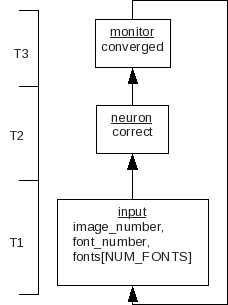
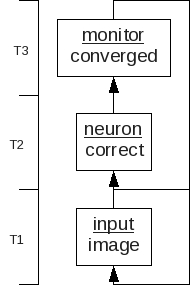
Working on docco.

diff --git a/vision_thing/docco/vision_thing.html b/vision_thing/docco/vision_thing.html
@@ -74,7 +74,7 @@ You might want to skip straight to the results, which are <a href="./animations.
 <img src="abstract.jpg" alt="abstract"/>
 </p>
 <p>
-
+Note that this differs slightly from the code - the monitor subscribing to the input object is not shown. This is because this relationship is not required, but the this was discovered too late in the release process to make it into v1.0. The above diagram shows how the relationship should be.
 </p>
 <h3>The concrete diagram</h3>
 <p>
@@ -116,51 +116,49 @@ This neuron is shown various images. We'll start with a very simple 8-bit exampl
 01111110
 </pre></blockquote>
 <p>
-As you can see this is a (crude) monochrome bit map of the number 1. When this is shown to our neuron, it will multiply each 1 in the image by the corresponding value in the 8-bit weight matrix, and sum the result. If that result is greater than 0, it means it thinks it's being shown a 1 and will set it's output flag to 1.. If the result is less than or equal to 0 it meant the neuron thinks it's not a 1, and set's it's output flag to 0. It's important to note that if the neuron doesn't think it's being shown a 1, it doesn't care what it might otherwise be - that's a job for the other neurons.
+As you can see this is a monochrome bit map of the number 1. When this is shown to our neuron, it will multiply each 1 in the image by the corresponding value in the 8-bit weight matrix, and sum the result. If that result is greater than 0, it means it thinks it's being shown a 1, and if the result is less than or equal to 0 it meant the neuron thinks it's not a 1. It's important to note that if the neuron doesn't think it's being shown a 1, it doesn't care what it might otherwise be - that's a job for the other neurons.
 </p>
 <p>
 Next, the neuron checks to see it it's correct. (The teaching mechanism is internal to the neurons themselves, partially to allow for concurrency but mainly because it made the most sense programatically.) There are three possible outcomes:
 </p>
 <p>
-Case 1) The neuron could be correct, either in correctly identifying a 1 or by correctly identifying that it's not a 1. In this case we do nothing to the weight matrix.
+Case CORRECT) The neuron is correct, either in correctly identifying a 1 or by correctly identifying that it's not a 1. In this case we do nothing to the weight matrix.
 </p>
 <p>
-Case 2) The neuron could be incorrect, by thinking it hasn't been shown a 1 when it has. In this case we need to increase the chance the next time it's show a 1 to get it correct. We do by increasing the values in the weight matrix that correspond to an active pixel. This means next time this image is shown and the results are summed we'll be above the firing threshold of 0.0.
+Case FALSE_POSITIVE) The neuron is incorrect, thinking it has been shown a 1 where in fact it hasn't. In this case we need to decrease the chance of this happening again by decreasing the values in the weight matrix that correspond to an active pixel. This means next time the neuron will take less notice of those pixels.
 </p>
 <p>
-Case 3) The neuron could be incorrect, by thinking it has been shown a 1 where in fact it hasn't. In this case we need to decrease the chance of this happening again by decreasing the values in the weight matrix that correspond to an active pixel. This means next time the neuron will take less notice of those pixels.
+Case FALSE_NEGATIVE) The neuron is incorrect, by thinking it hasn't been shown a 1 when in fact it has. In this case we need to increase the chance the next time it's show a 1 to get it correct. We do by increasing the values in the weight matrix that correspond to an active pixel. This means next time this image is shown and the results are summed we'll be above the firing threshold of 0.0.
+</p>
+<p>
+It is worth noting that the incorrect cases FALSE_POSITIVE and FALSE_NEGATIVE carry different weight adjustments. Case FALSE_POSITIVE (where it wrongly thinks it has been shown a 1 when it hasn't) will occur far more frequently than case FALSE_NEGATIVE (where it is being shown a 1 but gets it wrong), so the down adjustment to active pixels will be smaller than the up adjustment, by a factor of 10.
 </p>
 <p>
 This process is repeated for each of the input images until the neuron converges, convergence being defined as no adjustment to the weight matrix is made after being shown the complete set of 0-9 images.
 </p>
 <p>
-We'll walk through the first few cycles looking again at the neuron looking for 1. This shows the weight matrix after the neuron has made it's guess and has had the learning algorithm applied. Black means that pixel is strongly positively associated with the number 1. While means that pixel is strongly negatively associated with the number 1. Gray is neutral. 
+We'll walk through the first few cycles looking again at the neuron looking for 1. This shows the weight matrix after the neuron has made it's guess and has had the learning algorithm applied. Black means that pixel is strongly positively associated with the number 1. While white means that pixel is strongly negatively associated with the number 1. Gray is neutral. 
 </p>
 <p>
 <img src="./neuron_1_0.png" alt="neuron_1_0"/>
 </p>
 <p>
-In the above case neuron_1 is shown the number 0. As the weight matrix is initialised to 0 the sum is  0, which is greater than or equal to 0, so triggers a yes output, meaning it thinks it's a "1". As it's actually being shown a "0", it's incorrect, and the weight matrix is adjusted downwards for active pixels as described above.
+In the above case neuron_1 is shown the number 0. As the weight matrix is initialised to 0, the sum of which is  0, which is greater than or equal to 0 and so triggers a yes output, meaning it thinks it's a "1". As it's actually being shown a "0", it's incorrect, and the weight matrix is adjusted downwards for active pixels as described above.
 </p>
 <p>
 <img src="./neuron_1_1.png" alt="neuron_1_1"/>
 </p>
 <p>
-In the next case above the neuron has been shown a 1, but as many of it's weights have been negatively set by the previous cycle, it will wrongly produce a no output. In this case, the weight matrix is adjusted upwards to active pixels as described above.
+In the next case above the neuron has been shown a 1, but as many of it's weights have been negatively set by the previous cycle, it will wrongly produce a no output. In this case, the weight matrix is adjusted upwards for every active pixel as described above.
 </p>
 
 <p>
 <img src="./neuron_1_2.png" alt="neuron_1_2"/>
 </p>
 <p>
-In the above case, the neuron has been presented with a 2. As the weight matrix has just been heavily biased in favour of seeing "1"s everywhere, it will wrongly produce a yes output. Again as in the first example, the weight matrix will be adjusted downwards for those active pixels. This means that the portion of the image that corresponds to both 1 and 2 will be given less weight than those only pertaining to "1". If you zoom in your browser view (ctrl-mousewheel) you can see the shadows. It's worth noting two points at this stage.
+In the next case the neuron has been shown a 2. As the weight matrix has just been heavily biased in favour of seeing 1s everywhere, it will wrongly produce a yes output. Again as in the first example, the weight matrix will be adjusted downwards for those active pixels. This means that the portion of the image that corresponds to both 1 and 2 will be given less weight than those only pertaining to "1". If you zoom in your browser (ctrl-mousewheel) you can see the shadows more clearly.
 </p>
-<p>
-The first is that the incorrect cases 2) and 3) carry different weight adjustments. Case3 (where it wrongly thinks it has been shown a 1 when it hasn't) will occur far more frequently than case2 (where it is being shown a 1 but gets it wrong), so the down adjustment to active pixels will be smaller than the up adjustment, by a factor of 10.
-</p>
-<p>
-The second point is that the images of the weight matrix produced are scaled, so that max(up)=black and min(down)=white. This, combined with the first point above means that it will appear that black features more highly in the images than white, when in fact internally the effects of the white region are more pronounced.
-</p>
+
 <p>
 <img src="./neuron_1_31.png" alt="neuron_1_31"/>
 </p>
@@ -175,6 +173,9 @@ The above frame shows the neuron converged on Liberation - all the pixels associ
 <h2><a name="results">Results</a></h2>
 <p>
 <a  href="animations.html">Animations</a>
+</p>
+<p>
+The raw data set the graphs below were derived from is avilable <a  href="vt_out.csv">here</a>. Note that the neuron output value is an enum, with CORRECT=0, FALSE_POSITIVE=1 and FALSE_NEGATIVE=2.
 </p>
 <p>
 <img src="results1.png" alt="results1"/>
@@ -201,7 +202,10 @@ By far the most important contribution this app has made to the trad4 architectu
 This app makes extensive use of the excellent <a href="http://www.libgd.org/Main_Page">libgd</a>, a graphics library used here for converting from fonts to bit maps, and creating the animations. Libgd may or may not be thread-safe (in this case it writes to the filesystem so there will some limit on scalability), but it can be used in a multi-threaded environment as long as you know that any heap <i>it</i> uses will be cleaned up on exit from the calculate function. Apologies to anyone I might have scared off with my assertions in the v3.0 manual - this will be corrected shortly.
 </p>
 <p>
-That being said, there are circumstances where keeping 3rd party code on the stack is not an option. Witness jpm_cds, where we are actually porting an existing application to the trad4 architecture. This discussion is beyond the scope of this document, but will be addressed in the all-new trad4v3.1 manual (forthcoming). The jpm_cds Phase2 model is actually a very high priority of mine, but quite frankly feels like a bit of a busman's holiday, so I haven't given it as much time as I should have done.
+That being said, there are circumstances where keeping 3rd party code on the stack is not an option. Witness jpm_cds, where we are actually porting an existing application to the trad4 architecture. This discussion is beyond the scope of this document, but will be addressed in the all-new trad4v3.1 manual (forthcoming). The jpm_cds Phase2 model is actually a very high priority of mine, but quite frankly feels like a bit of a busman's holiday, so I haven't given it as much time as I should have done. FIXME - more on planned 2nd and 3rd party integration.
+</p>
+<p>
+
 </p>
 <h3>User function signatures</h3>
 <p>
